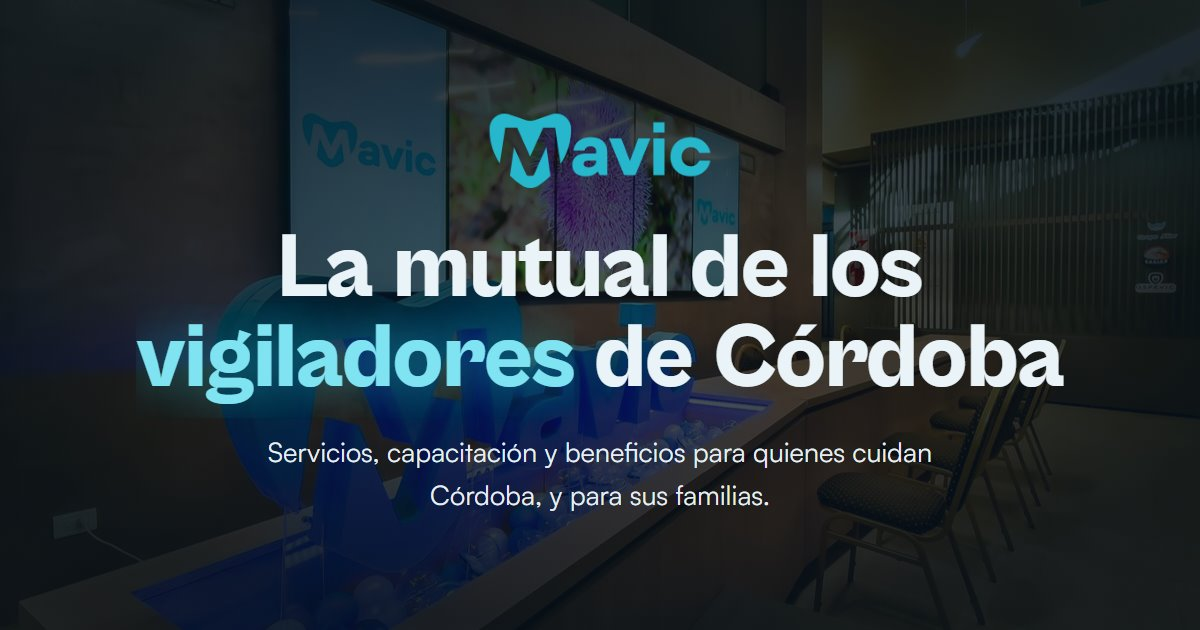
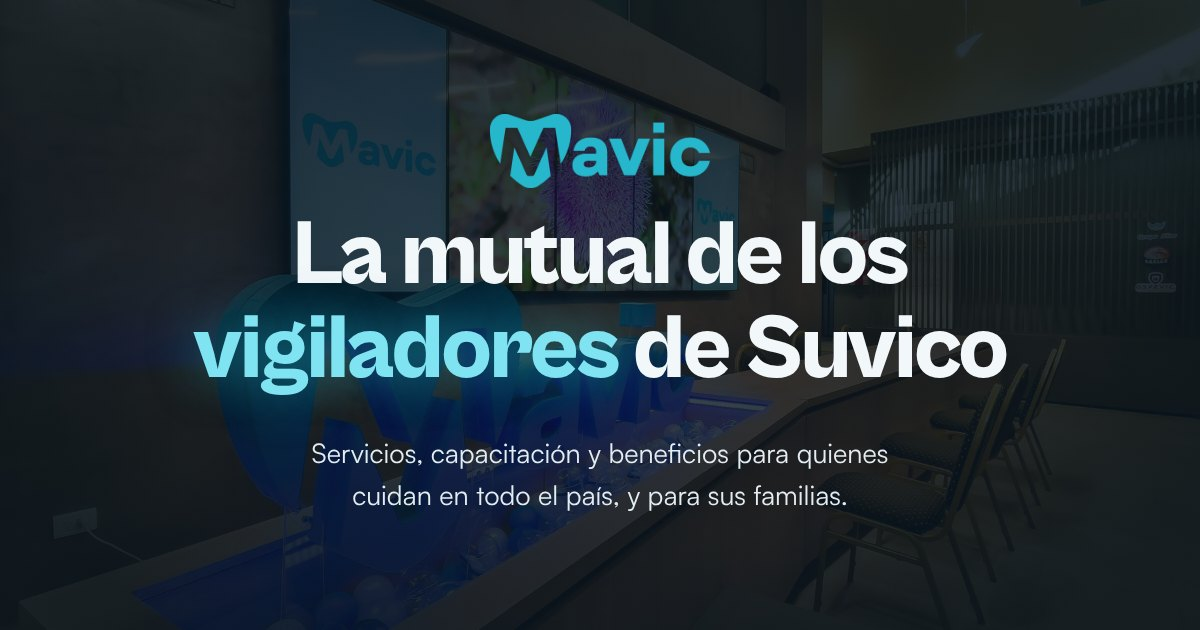
mavic: imagen para compartir con el título nuevo («de Suvico», todo el país)
Cambia la versión en la URL de og:image para que WhatsApp y Facebook
no muestren la vieja guardada.

Claude-Session: https://claude.ai/code/session_01RD25kCzhG4pnw1H7qnN5tM

Changed region(s): [[0.0925, 0.3317, 0.8942, 0.6635], [0.2158, 0.6937, 0.7708, 0.8143]]

diff --git a/mavic/preguntas.html b/mavic/preguntas.html
@@ -14,8 +14,8 @@
 <meta property="og:description" content="Respuestas a las consultas más frecuentes sobre la asociación, la tienda y los cursos de Mavic.">
 <link rel="canonical" href="https://web.temacy.com/mavic/preguntas.html">
 <meta property="og:url" content="https://web.temacy.com/mavic/preguntas.html">
-<meta property="og:image" content="https://web.temacy.com/mavic/img/compartir.jpg?v=5af4c56e">
-<meta property="og:image:secure_url" content="https://web.temacy.com/mavic/img/compartir.jpg?v=5af4c56e">
+<meta property="og:image" content="https://web.temacy.com/mavic/img/compartir.jpg?v=ea9ace31">
+<meta property="og:image:secure_url" content="https://web.temacy.com/mavic/img/compartir.jpg?v=ea9ace31">
 <meta property="og:image:type" content="image/jpeg">
 <meta property="og:image:width" content="1200">
 <meta property="og:image:height" content="630">
@@ -23,7 +23,7 @@
 <meta name="twitter:card" content="summary_large_image">
 <meta name="twitter:title" content="Preguntas frecuentes · Mavic">
 <meta name="twitter:description" content="Respuestas a las consultas más frecuentes sobre la asociación, la tienda y los cursos de Mavic.">
-<meta name="twitter:image" content="https://web.temacy.com/mavic/img/compartir.jpg?v=5af4c56e">
+<meta name="twitter:image" content="https://web.temacy.com/mavic/img/compartir.jpg?v=ea9ace31">
 <script type="application/ld+json">{"@context": "https://schema.org", "@type": "FAQPage", "mainEntity": [{"@type": "Question", "name": "¿Cuánto cuesta asociarse?", "acceptedAnswer": {"@type": "Answer", "text": "La cuota social es el 1% del sueldo básico. El servicio de sepelio es opcional y suma $2.500 por mes."}}, {"@type": "Question", "name": "¿Cómo me doy de baja?", "acceptedAnswer": {"@type": "Answer", "text": "Traé una nota escrita, a mano o impresa, con tu nombre completo, CUIL, el motivo de la baja y tu firma."}}, {"@type": "Question", "name": "¿Cómo compro en la tienda?", "acceptedAnswer": {"@type": "Answer", "text": "Creá tu usuario en tiendamavic.com.ar. La aprobación puede demorar hasta 24 hs hábiles. Para comprar tenés que estar asociado. El snack pack no está en la tienda: se pide por WhatsApp."}}, {"@type": "Question", "name": "¿Cómo creo mi usuario en la tienda?", "acceptedAnswer": {"@type": "Answer", "text": "Entrá a tiendamavic.com.ar/login, tocá “Creá tu usuario” y completá tus datos. Te llega un mail de confirmación (revisá spam). La aprobación puede demorar hasta 24 hs hábiles."}}, {"@type": "Question", "name": "¿Cuántos packs puedo retirar por mes?", "acceptedAnswer": {"@type": "Answer", "text": "Hasta 2 food packs, 2 clean packs y 2 snack packs por asociado. Los packs vienen armados y no se modifican."}}, {"@type": "Question", "name": "¿Dónde retiro mi pack?", "acceptedAnswer": {"@type": "Answer", "text": "En Mavic, La Rioja 260, Córdoba, o en las delegaciones gremiales de La Calera, Villa María, Río Cuarto, Río Tercero y San Francisco."}}, {"@type": "Question", "name": "¿Dónde descargo el certificado final del curso?", "acceptedAnswer": {"@type": "Answer", "text": "Los emite la Universidad Provincial de Córdoba. Entrá a upc.edu.ar/certificados, elegí Educación Continua – IGTP, tu edición, y escribí tu DNI sin puntos. Si no aparece, escribinos y lo revisamos."}}, {"@type": "Question", "name": "¿Cómo obtengo el certificado de RCP?", "acceptedAnswer": {"@type": "Answer", "text": "Se envía por mail a la casilla que registraste al completar la asistencia. Revisá también la carpeta de spam. Si no te llegó o tiene un dato mal, escribinos con tu nombre completo, DNI y la fecha del curso."}}, {"@type": "Question", "name": "Me piden el certificado de inscripción en mi trabajo", "acceptedAnswer": {"@type": "Answer", "text": "Cuando te inscribiste, el certificado se envió a la empresa donde trabajás. Consultá primero ahí. Si igual lo necesitás, escribinos."}}]}</script>
 <link rel="icon" type="image/png" href="img/isotipo.png">
 <link rel="apple-touch-icon" href="img/isotipo.png">

diff --git a/mavic/index.html b/mavic/index.html
@@ -14,8 +14,8 @@
 <meta property="og:description" content="Mavic, la mutual de los vigiladores de Suvico. Proveeduría, capacitaciones, subsidios, sepelio y farmacia para asociados y sus familias.">
 <link rel="canonical" href="https://web.temacy.com/mavic/">
 <meta property="og:url" content="https://web.temacy.com/mavic/">
-<meta property="og:image" content="https://web.temacy.com/mavic/img/compartir.jpg?v=5af4c56e">
-<meta property="og:image:secure_url" content="https://web.temacy.com/mavic/img/compartir.jpg?v=5af4c56e">
+<meta property="og:image" content="https://web.temacy.com/mavic/img/compartir.jpg?v=ea9ace31">
+<meta property="og:image:secure_url" content="https://web.temacy.com/mavic/img/compartir.jpg?v=ea9ace31">
 <meta property="og:image:type" content="image/jpeg">
 <meta property="og:image:width" content="1200">
 <meta property="og:image:height" content="630">
@@ -23,7 +23,7 @@
 <meta name="twitter:card" content="summary_large_image">
 <meta name="twitter:title" content="Mavic · La mutual de los vigiladores">
 <meta name="twitter:description" content="Mavic, la mutual de los vigiladores de Suvico. Proveeduría, capacitaciones, subsidios, sepelio y farmacia para asociados y sus familias.">
-<meta name="twitter:image" content="https://web.temacy.com/mavic/img/compartir.jpg?v=5af4c56e">
+<meta name="twitter:image" content="https://web.temacy.com/mavic/img/compartir.jpg?v=ea9ace31">
 <script type="application/ld+json">{"@context": "https://schema.org", "@type": "Organization", "name": "Mavic", "description": "La mutual de los vigiladores de Suvico.", "address": {"@type": "PostalAddress", "streetAddress": "La Rioja 260", "addressLocality": "Córdoba", "addressRegion": "Córdoba", "addressCountry": "AR"}, "sameAs": ["https://instagram.com/mavic_mutual"], "url": "https://web.temacy.com/mavic", "logo": "https://web.temacy.com/mavic/img/logo.png"}</script>
 <link rel="icon" type="image/png" href="img/isotipo.png">
 <link rel="apple-touch-icon" href="img/isotipo.png">

diff --git a/mavic/contacto.html b/mavic/contacto.html
@@ -14,8 +14,8 @@
 <meta property="og:description" content="WhatsApp, sede, farmacia y delegaciones de Mavic.">
 <link rel="canonical" href="https://web.temacy.com/mavic/contacto.html">
 <meta property="og:url" content="https://web.temacy.com/mavic/contacto.html">
-<meta property="og:image" content="https://web.temacy.com/mavic/img/compartir.jpg?v=5af4c56e">
-<meta property="og:image:secure_url" content="https://web.temacy.com/mavic/img/compartir.jpg?v=5af4c56e">
+<meta property="og:image" content="https://web.temacy.com/mavic/img/compartir.jpg?v=ea9ace31">
+<meta property="og:image:secure_url" content="https://web.temacy.com/mavic/img/compartir.jpg?v=ea9ace31">
 <meta property="og:image:type" content="image/jpeg">
 <meta property="og:image:width" content="1200">
 <meta property="og:image:height" content="630">
@@ -23,7 +23,7 @@
 <meta name="twitter:card" content="summary_large_image">
 <meta name="twitter:title" content="Contacto · Mavic">
 <meta name="twitter:description" content="WhatsApp, sede, farmacia y delegaciones de Mavic.">
-<meta name="twitter:image" content="https://web.temacy.com/mavic/img/compartir.jpg?v=5af4c56e">
+<meta name="twitter:image" content="https://web.temacy.com/mavic/img/compartir.jpg?v=ea9ace31">
 <script type="application/ld+json">{"@context": "https://schema.org", "@type": "Organization", "name": "Mavic", "description": "La mutual de los vigiladores de Suvico.", "address": {"@type": "PostalAddress", "streetAddress": "La Rioja 260", "addressLocality": "Córdoba", "addressRegion": "Córdoba", "addressCountry": "AR"}, "sameAs": ["https://instagram.com/mavic_mutual"], "url": "https://web.temacy.com/mavic", "logo": "https://web.temacy.com/mavic/img/logo.png"}</script>
 <link rel="icon" type="image/png" href="img/isotipo.png">
 <link rel="apple-touch-icon" href="img/isotipo.png">

diff --git a/mavic/servicios.html b/mavic/servicios.html
@@ -14,8 +14,8 @@
 <meta property="og:description" content="Todos los servicios de Mavic: packs de alimentos y limpieza, electrodomésticos, capacitaciones, estudios, sepelio, subsidios, farmacia, gimnasio y turismo.">
 <link rel="canonical" href="https://web.temacy.com/mavic/servicios.html">
 <meta property="og:url" content="https://web.temacy.com/mavic/servicios.html">
-<meta property="og:image" content="https://web.temacy.com/mavic/img/compartir.jpg?v=5af4c56e">
-<meta property="og:image:secure_url" content="https://web.temacy.com/mavic/img/compartir.jpg?v=5af4c56e">
+<meta property="og:image" content="https://web.temacy.com/mavic/img/compartir.jpg?v=ea9ace31">
+<meta property="og:image:secure_url" content="https://web.temacy.com/mavic/img/compartir.jpg?v=ea9ace31">
 <meta property="og:image:type" content="image/jpeg">
 <meta property="og:image:width" content="1200">
 <meta property="og:image:height" content="630">
@@ -23,7 +23,7 @@
 <meta name="twitter:card" content="summary_large_image">
 <meta name="twitter:title" content="Servicios · Mavic">
 <meta name="twitter:description" content="Todos los servicios de Mavic: packs de alimentos y limpieza, electrodomésticos, capacitaciones, estudios, sepelio, subsidios, farmacia, gimnasio y turismo.">
-<meta name="twitter:image" content="https://web.temacy.com/mavic/img/compartir.jpg?v=5af4c56e">
+<meta name="twitter:image" content="https://web.temacy.com/mavic/img/compartir.jpg?v=ea9ace31">
 <link rel="icon" type="image/png" href="img/isotipo.png">
 <link rel="apple-touch-icon" href="img/isotipo.png">
 <script>document.documentElement.className = "js"</script>

diff --git a/mavic/asociate.html b/mavic/asociate.html
@@ -14,8 +14,8 @@
 <meta property="og:description" content="Asociate a Mavic por el 1% de tu sueldo básico y accedé a todos los beneficios para vos y tu familia.">
 <link rel="canonical" href="https://web.temacy.com/mavic/asociate.html">
 <meta property="og:url" content="https://web.temacy.com/mavic/asociate.html">
-<meta property="og:image" content="https://web.temacy.com/mavic/img/compartir.jpg?v=5af4c56e">
-<meta property="og:image:secure_url" content="https://web.temacy.com/mavic/img/compartir.jpg?v=5af4c56e">
+<meta property="og:image" content="https://web.temacy.com/mavic/img/compartir.jpg?v=ea9ace31">
+<meta property="og:image:secure_url" content="https://web.temacy.com/mavic/img/compartir.jpg?v=ea9ace31">
 <meta property="og:image:type" content="image/jpeg">
 <meta property="og:image:width" content="1200">
 <meta property="og:image:height" content="630">
@@ -23,7 +23,7 @@
 <meta name="twitter:card" content="summary_large_image">
 <meta name="twitter:title" content="Asociate · Mavic">
 <meta name="twitter:description" content="Asociate a Mavic por el 1% de tu sueldo básico y accedé a todos los beneficios para vos y tu familia.">
-<meta name="twitter:image" content="https://web.temacy.com/mavic/img/compartir.jpg?v=5af4c56e">
+<meta name="twitter:image" content="https://web.temacy.com/mavic/img/compartir.jpg?v=ea9ace31">
 <link rel="icon" type="image/png" href="img/isotipo.png">
 <link rel="apple-touch-icon" href="img/isotipo.png">
 <script>document.documentElement.className = "js"</script>

diff --git a/mavic/quienes-somos.html b/mavic/quienes-somos.html
@@ -14,8 +14,8 @@
 <meta property="og:description" content="Conocé Mavic, la mutual de los vigiladores de Suvico: la sede, sus espacios y cómo asociarte.">
 <link rel="canonical" href="https://web.temacy.com/mavic/quienes-somos.html">
 <meta property="og:url" content="https://web.temacy.com/mavic/quienes-somos.html">
-<meta property="og:image" content="https://web.temacy.com/mavic/img/compartir.jpg?v=5af4c56e">
-<meta property="og:image:secure_url" content="https://web.temacy.com/mavic/img/compartir.jpg?v=5af4c56e">
+<meta property="og:image" content="https://web.temacy.com/mavic/img/compartir.jpg?v=ea9ace31">
+<meta property="og:image:secure_url" content="https://web.temacy.com/mavic/img/compartir.jpg?v=ea9ace31">
 <meta property="og:image:type" content="image/jpeg">
 <meta property="og:image:width" content="1200">
 <meta property="og:image:height" content="630">
@@ -23,7 +23,7 @@
 <meta name="twitter:card" content="summary_large_image">
 <meta name="twitter:title" content="Quiénes somos · Mavic">
 <meta name="twitter:description" content="Conocé Mavic, la mutual de los vigiladores de Suvico: la sede, sus espacios y cómo asociarte.">
-<meta name="twitter:image" content="https://web.temacy.com/mavic/img/compartir.jpg?v=5af4c56e">
+<meta name="twitter:image" content="https://web.temacy.com/mavic/img/compartir.jpg?v=ea9ace31">
 <link rel="icon" type="image/png" href="img/isotipo.png">
 <link rel="apple-touch-icon" href="img/isotipo.png">
 <script>document.documentElement.className = "js"</script>

diff --git a/mavic/servicios/subsidios.html b/mavic/servicios/subsidios.html
@@ -14,8 +14,8 @@
 <meta property="og:description" content="Subsidios de Mavic por nacimiento y por casamiento: 20 cuotas sociales cada uno.">
 <link rel="canonical" href="https://web.temacy.com/mavic/servicios/subsidios.html">
 <meta property="og:url" content="https://web.temacy.com/mavic/servicios/subsidios.html">
-<meta property="og:image" content="https://web.temacy.com/mavic/img/compartir.jpg?v=5af4c56e">
-<meta property="og:image:secure_url" content="https://web.temacy.com/mavic/img/compartir.jpg?v=5af4c56e">
+<meta property="og:image" content="https://web.temacy.com/mavic/img/compartir.jpg?v=ea9ace31">
+<meta property="og:image:secure_url" content="https://web.temacy.com/mavic/img/compartir.jpg?v=ea9ace31">
 <meta property="og:image:type" content="image/jpeg">
 <meta property="og:image:width" content="1200">
 <meta property="og:image:height" content="630">
@@ -23,7 +23,7 @@
 <meta name="twitter:card" content="summary_large_image">
 <meta name="twitter:title" content="Subsidios · Mavic">
 <meta name="twitter:description" content="Subsidios de Mavic por nacimiento y por casamiento: 20 cuotas sociales cada uno.">
-<meta name="twitter:image" content="https://web.temacy.com/mavic/img/compartir.jpg?v=5af4c56e">
+<meta name="twitter:image" content="https://web.temacy.com/mavic/img/compartir.jpg?v=ea9ace31">
 <link rel="icon" type="image/png" href="../img/isotipo.png">
 <link rel="apple-touch-icon" href="../img/isotipo.png">
 <script>document.documentElement.className = "js"</script>

diff --git a/mavic/servicios/capacitaciones.html b/mavic/servicios/capacitaciones.html
@@ -14,8 +14,8 @@
 <meta property="og:description" content="Cursos con certificación oficial para vigiladores, junto a la UPC.">
 <link rel="canonical" href="https://web.temacy.com/mavic/servicios/capacitaciones.html">
 <meta property="og:url" content="https://web.temacy.com/mavic/servicios/capacitaciones.html">
-<meta property="og:image" content="https://web.temacy.com/mavic/img/compartir.jpg?v=5af4c56e">
-<meta property="og:image:secure_url" content="https://web.temacy.com/mavic/img/compartir.jpg?v=5af4c56e">
+<meta property="og:image" content="https://web.temacy.com/mavic/img/compartir.jpg?v=ea9ace31">
+<meta property="og:image:secure_url" content="https://web.temacy.com/mavic/img/compartir.jpg?v=ea9ace31">
 <meta property="og:image:type" content="image/jpeg">
 <meta property="og:image:width" content="1200">
 <meta property="og:image:height" content="630">
@@ -23,7 +23,7 @@
 <meta name="twitter:card" content="summary_large_image">
 <meta name="twitter:title" content="Capacitaciones · Mavic">
 <meta name="twitter:description" content="Cursos con certificación oficial para vigiladores, junto a la UPC.">
-<meta name="twitter:image" content="https://web.temacy.com/mavic/img/compartir.jpg?v=5af4c56e">
+<meta name="twitter:image" content="https://web.temacy.com/mavic/img/compartir.jpg?v=ea9ace31">
 <link rel="icon" type="image/png" href="../img/isotipo.png">
 <link rel="apple-touch-icon" href="../img/isotipo.png">
 <script>document.documentElement.className = "js"</script>

diff --git a/mavic/servicios/electrodomesticos.html b/mavic/servicios/electrodomesticos.html
@@ -14,8 +14,8 @@
 <meta property="og:description" content="Electrodomésticos a pedido, con pago por recibo de sueldo.">
 <link rel="canonical" href="https://web.temacy.com/mavic/servicios/electrodomesticos.html">
 <meta property="og:url" content="https://web.temacy.com/mavic/servicios/electrodomesticos.html">
-<meta property="og:image" content="https://web.temacy.com/mavic/img/compartir.jpg?v=5af4c56e">
-<meta property="og:image:secure_url" content="https://web.temacy.com/mavic/img/compartir.jpg?v=5af4c56e">
+<meta property="og:image" content="https://web.temacy.com/mavic/img/compartir.jpg?v=ea9ace31">
+<meta property="og:image:secure_url" content="https://web.temacy.com/mavic/img/compartir.jpg?v=ea9ace31">
 <meta property="og:image:type" content="image/jpeg">
 <meta property="og:image:width" content="1200">
 <meta property="og:image:height" content="630">
@@ -23,7 +23,7 @@
 <meta name="twitter:card" content="summary_large_image">
 <meta name="twitter:title" content="Electrodomésticos · Mavic">
 <meta name="twitter:description" content="Electrodomésticos a pedido, con pago por recibo de sueldo.">
-<meta name="twitter:image" content="https://web.temacy.com/mavic/img/compartir.jpg?v=5af4c56e">
+<meta name="twitter:image" content="https://web.temacy.com/mavic/img/compartir.jpg?v=ea9ace31">
 <link rel="icon" type="image/png" href="../img/isotipo.png">
 <link rel="apple-touch-icon" href="../img/isotipo.png">
 <script>document.documentElement.className = "js"</script>

diff --git a/mavic/servicios/estudios.html b/mavic/servicios/estudios.html
@@ -14,8 +14,8 @@
 <meta property="og:description" content="Primario y secundario para jóvenes y adultos, semipresencial.">
 <link rel="canonical" href="https://web.temacy.com/mavic/servicios/estudios.html">
 <meta property="og:url" content="https://web.temacy.com/mavic/servicios/estudios.html">
-<meta property="og:image" content="https://web.temacy.com/mavic/img/compartir.jpg?v=5af4c56e">
-<meta property="og:image:secure_url" content="https://web.temacy.com/mavic/img/compartir.jpg?v=5af4c56e">
+<meta property="og:image" content="https://web.temacy.com/mavic/img/compartir.jpg?v=ea9ace31">
+<meta property="og:image:secure_url" content="https://web.temacy.com/mavic/img/compartir.jpg?v=ea9ace31">
 <meta property="og:image:type" content="image/jpeg">
 <meta property="og:image:width" content="1200">
 <meta property="og:image:height" content="630">
@@ -23,7 +23,7 @@
 <meta name="twitter:card" content="summary_large_image">
 <meta name="twitter:title" content="Terminá tus estudios · Mavic">
 <meta name="twitter:description" content="Primario y secundario para jóvenes y adultos, semipresencial.">
-<meta name="twitter:image" content="https://web.temacy.com/mavic/img/compartir.jpg?v=5af4c56e">
+<meta name="twitter:image" content="https://web.temacy.com/mavic/img/compartir.jpg?v=ea9ace31">
 <link rel="icon" type="image/png" href="../img/isotipo.png">
 <link rel="apple-touch-icon" href="../img/isotipo.png">
 <script>document.documentElement.className = "js"</script>

diff --git a/mavic/servicios/farmacia.html b/mavic/servicios/farmacia.html
@@ -14,8 +14,8 @@
 <meta property="og:description" content="Nuestra farmacia, con descuentos para toda la familia.">
 <link rel="canonical" href="https://web.temacy.com/mavic/servicios/farmacia.html">
 <meta property="og:url" content="https://web.temacy.com/mavic/servicios/farmacia.html">
-<meta property="og:image" content="https://web.temacy.com/mavic/img/compartir.jpg?v=5af4c56e">
-<meta property="og:image:secure_url" content="https://web.temacy.com/mavic/img/compartir.jpg?v=5af4c56e">
+<meta property="og:image" content="https://web.temacy.com/mavic/img/compartir.jpg?v=ea9ace31">
+<meta property="og:image:secure_url" content="https://web.temacy.com/mavic/img/compartir.jpg?v=ea9ace31">
 <meta property="og:image:type" content="image/jpeg">
 <meta property="og:image:width" content="1200">
 <meta property="og:image:height" content="630">
@@ -23,7 +23,7 @@
 <meta name="twitter:card" content="summary_large_image">
 <meta name="twitter:title" content="Farma Mavic · La farmacia de la mutual">
 <meta name="twitter:description" content="Nuestra farmacia, con descuentos para toda la familia.">
-<meta name="twitter:image" content="https://web.temacy.com/mavic/img/compartir.jpg?v=5af4c56e">
+<meta name="twitter:image" content="https://web.temacy.com/mavic/img/compartir.jpg?v=ea9ace31">
 <link rel="icon" type="image/png" href="../img/isotipo.png">
 <link rel="apple-touch-icon" href="../img/isotipo.png">
 <script>document.documentElement.className = "js"</script>

diff --git a/mavic/servicios/food-packs.html b/mavic/servicios/food-packs.html
@@ -14,8 +14,8 @@
 <meta property="og:description" content="28 variedades de alimentos esenciales, 44 productos por pack.">
 <link rel="canonical" href="https://web.temacy.com/mavic/servicios/food-packs.html">
 <meta property="og:url" content="https://web.temacy.com/mavic/servicios/food-packs.html">
-<meta property="og:image" content="https://web.temacy.com/mavic/img/compartir.jpg?v=5af4c56e">
-<meta property="og:image:secure_url" content="https://web.temacy.com/mavic/img/compartir.jpg?v=5af4c56e">
+<meta property="og:image" content="https://web.temacy.com/mavic/img/compartir.jpg?v=ea9ace31">
+<meta property="og:image:secure_url" content="https://web.temacy.com/mavic/img/compartir.jpg?v=ea9ace31">
 <meta property="og:image:type" content="image/jpeg">
 <meta property="og:image:width" content="1200">
 <meta property="og:image:height" content="630">
@@ -23,7 +23,7 @@
 <meta name="twitter:card" content="summary_large_image">
 <meta name="twitter:title" content="Food packs · Mavic">
 <meta name="twitter:description" content="28 variedades de alimentos esenciales, 44 productos por pack.">
-<meta name="twitter:image" content="https://web.temacy.com/mavic/img/compartir.jpg?v=5af4c56e">
+<meta name="twitter:image" content="https://web.temacy.com/mavic/img/compartir.jpg?v=ea9ace31">
 <link rel="icon" type="image/png" href="../img/isotipo.png">
 <link rel="apple-touch-icon" href="../img/isotipo.png">
 <script>document.documentElement.className = "js"</script>
